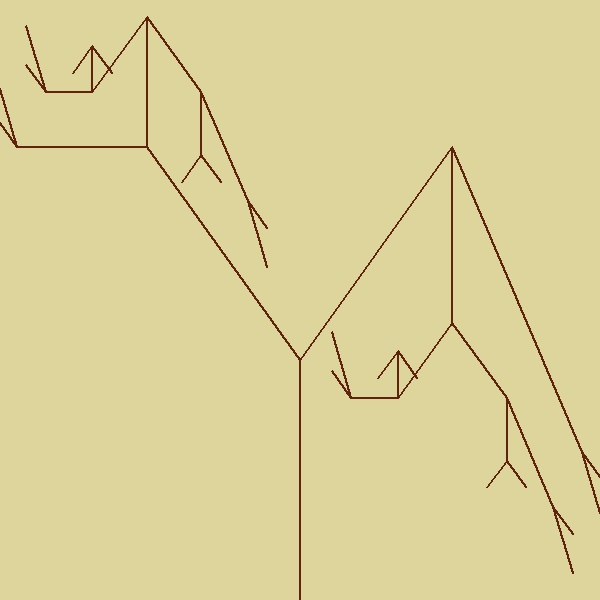
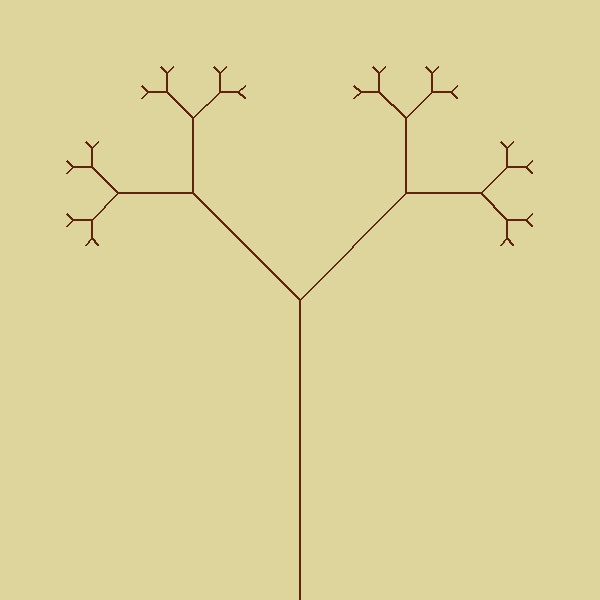
fixed angles for the tree

diff --git a/site/htdocs/the-world/herbarium/index.php b/site/htdocs/the-world/herbarium/index.php
@@ -11,13 +11,13 @@ function splitNodes() {
 
 		$thisNodesAngle = intval($thisNode[4]) - $branchingAngle;
 		$newNodesEndX = $newNodeStartX - (sin(deg2rad($thisNodesAngle))*$newNodesLength);
-		$newNodesEndY = $newNodeStartX - (cos(deg2rad($thisNodesAngle))*$newNodesLength);
+		$newNodesEndY = $newNodeStartY - (cos(deg2rad($thisNodesAngle))*$newNodesLength);
 		imageline($plantCanvas, $newNodeStartX, $newNodeStartY, $newNodesEndX, $newNodesEndY, IMG_COLOR_BRUSHED);
 		array_push($openNodes, array($newNodesEndX,$newNodesEndY,$thisNode[2]+1,$newNodesLength,$thisNodesAngle));
 
 		$thisNodesAngle = intval($thisNode[4]) + $branchingAngle;
 		$newNodesEndX = $newNodeStartX - (sin(deg2rad($thisNodesAngle))*$newNodesLength);
-		$newNodesEndY = $newNodeStartX - (cos(deg2rad($thisNodesAngle))*$newNodesLength);
+		$newNodesEndY = $newNodeStartY - (cos(deg2rad($thisNodesAngle))*$newNodesLength);
 		imageline($plantCanvas, $newNodeStartX, $newNodeStartY, $newNodesEndX, $newNodesEndY, IMG_COLOR_BRUSHED);
 		array_push($openNodes, array($newNodesEndX,$newNodesEndY,$thisNode[2]+1,$newNodesLength,$thisNodesAngle));
 
@@ -39,7 +39,7 @@ function drawPlant() {
 	imagefilledellipse($brush, 1, 1, 2, 2, $colour);
 	imagesetbrush($plantCanvas, $brush);
 
-	$lengthModifier = 0.6;
+	$lengthModifier = 0.5;
 
 	// draw initial line
 	$startX = $canvaDimension/2;
